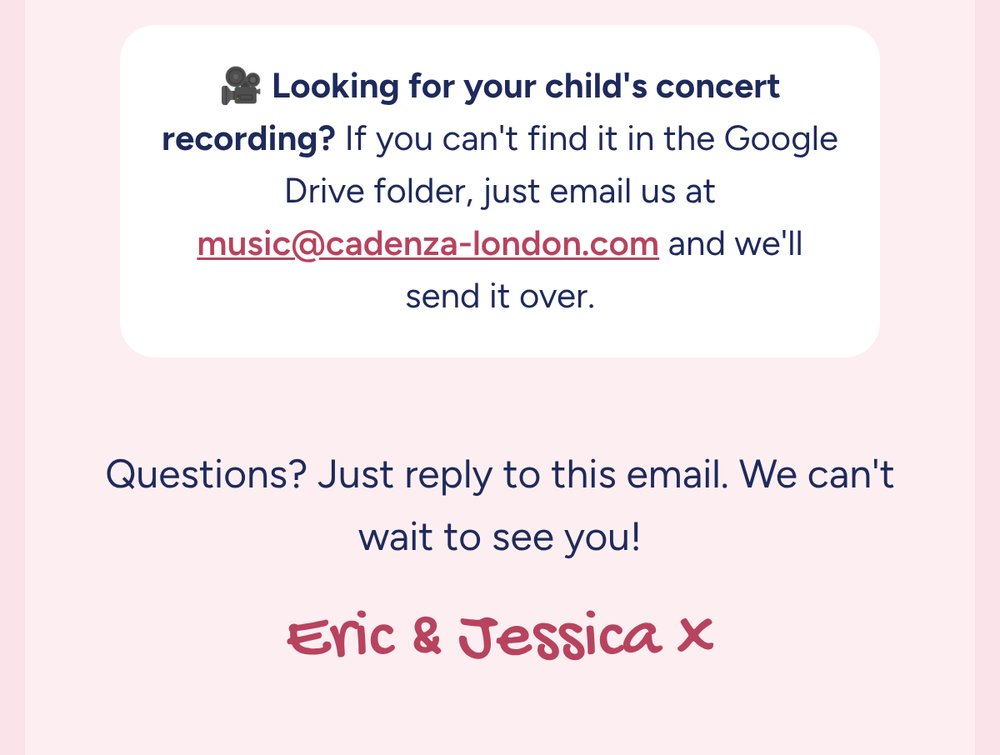
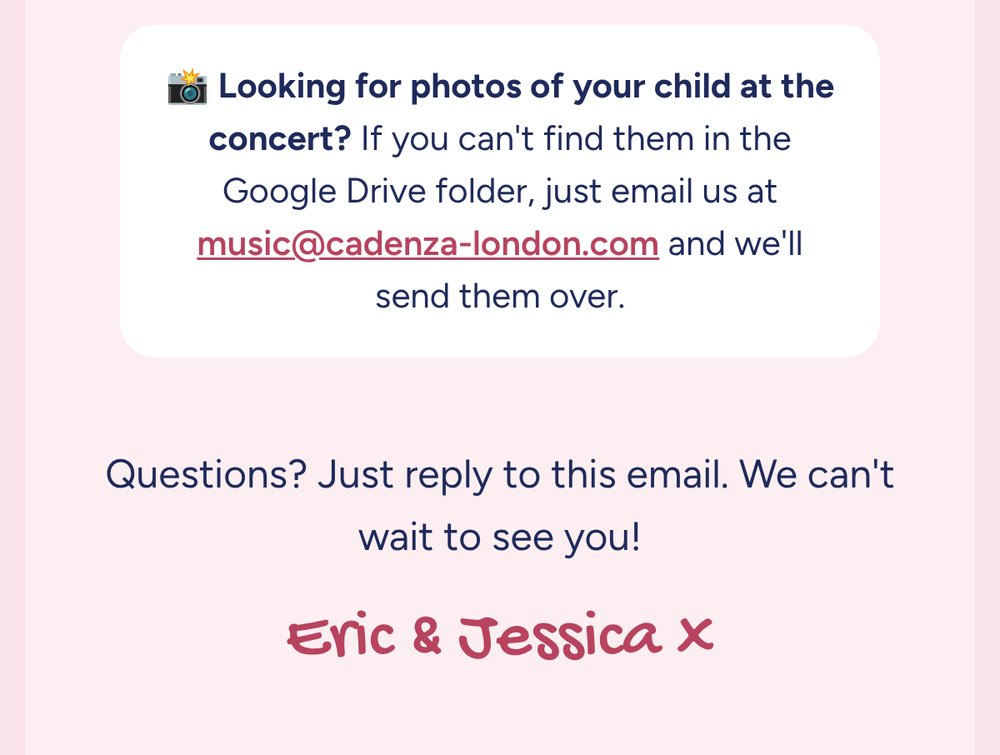
Newsletter Nov 2026: concert photos wording
Claude-Session: https://claude.ai/code/session_015bt2nYSBxtEEo5rA4rXfs1

Changed region(s): [[0.155, 0.0914, 0.837, 0.2742], [0.372, 0.3656, 0.62, 0.4265]]

diff --git a/newsletter-nov2026/email/index.html b/newsletter-nov2026/email/index.html
@@ -26,22 +26,22 @@ Early access: our new Sight-Reading Club is FREE until 31 Dec, the Digital Exam 
 
 <table role="presentation" width="480" cellpadding="0" cellspacing="0" border="0" style="width:100%;max-width:480px;">
   <tr><td style="padding:0;line-height:0;font-size:0;">
-    <a href="https://cadenza-london.com/newsletter-nov2026/" target="_blank"><img src="https://cadenza-london.com/newsletter-nov2026/email/part1.jpg?v=5" width="480" alt="Cadenza London Music Academy. November 2026 Newsletter. Hello hello! Big news is here, and you hear it first. We've got so much going on at Cadenza: as a mailing list VIP, you get early access to two brand-new things before anyone else." style="display:block;width:100%;max-width:480px;height:auto;"></a>
+    <a href="https://cadenza-london.com/newsletter-nov2026/" target="_blank"><img src="https://cadenza-london.com/newsletter-nov2026/email/part1.jpg?v=6" width="480" alt="Cadenza London Music Academy. November 2026 Newsletter. Hello hello! Big news is here, and you hear it first. We've got so much going on at Cadenza: as a mailing list VIP, you get early access to two brand-new things before anyone else." style="display:block;width:100%;max-width:480px;height:auto;"></a>
   </td></tr>
   <tr><td style="padding:0;line-height:0;font-size:0;">
-    <a href="https://cadenza-london.com/sight-reading-club#book" target="_blank"><img src="https://cadenza-london.com/newsletter-nov2026/email/part2.jpg?v=5" width="480" alt="New launch: Sight-Reading Club starts Tuesday 3 November, free every session until 31 December. Weekly on Zoom, Tuesdays 6:00–6:45pm, 8 players max. Beginner Grades 1–3, Intermediate Grades 4–6. From January £8/£10 a session or monthly plans from £15; Cadenza students get 1 free session a month. Tap to book your free place." style="display:block;width:100%;max-width:480px;height:auto;"></a>
+    <a href="https://cadenza-london.com/sight-reading-club#book" target="_blank"><img src="https://cadenza-london.com/newsletter-nov2026/email/part2.jpg?v=6" width="480" alt="New launch: Sight-Reading Club starts Tuesday 3 November, free every session until 31 December. Weekly on Zoom, Tuesdays 6:00–6:45pm, 8 players max. Beginner Grades 1–3, Intermediate Grades 4–6. From January £8/£10 a session or monthly plans from £15; Cadenza students get 1 free session a month. Tap to book your free place." style="display:block;width:100%;max-width:480px;height:auto;"></a>
   </td></tr>
   <tr><td style="padding:0;line-height:0;font-size:0;">
-    <a href="https://cadenza-london.com/digital-exam-ready/" target="_blank"><img src="https://cadenza-london.com/newsletter-nov2026/email/part3.jpg?v=5" width="480" alt="VIP early access: the in-person 4-week Digital Exam Ready Course starts in November 2026. Masterclass format, a mock exam day and a recording day on a grand piano with a videographer, for ABRSM and Trinity digital exams. Taught by Eric: 100% passing rate. Tap to get early access." style="display:block;width:100%;max-width:480px;height:auto;"></a>
+    <a href="https://cadenza-london.com/digital-exam-ready/" target="_blank"><img src="https://cadenza-london.com/newsletter-nov2026/email/part3.jpg?v=6" width="480" alt="VIP early access: the in-person 4-week Digital Exam Ready Course starts in November 2026. Masterclass format, a mock exam day and a recording day on a grand piano with a videographer, for ABRSM and Trinity digital exams. Taught by Eric: 100% passing rate. Tap to get early access." style="display:block;width:100%;max-width:480px;height:auto;"></a>
   </td></tr>
   <tr><td style="padding:0;line-height:0;font-size:0;">
-    <a href="https://cadenza-questionnaire-2027.netlify.app" target="_blank"><img src="https://cadenza-london.com/newsletter-nov2026/email/part4.jpg?v=5" width="480" alt="Photos from our Christmas concert 2025. Missed our concert last year end? We're now planning a concert or competition in January or February 2027. Tap to vote for our 2027 event: your opinion matters!" style="display:block;width:100%;max-width:480px;height:auto;"></a>
+    <a href="https://cadenza-questionnaire-2027.netlify.app" target="_blank"><img src="https://cadenza-london.com/newsletter-nov2026/email/part4.jpg?v=6" width="480" alt="Photos from our Christmas concert 2025. Missed our concert last year end? We're now planning a concert or competition in January or February 2027. Tap to vote for our 2027 event: your opinion matters!" style="display:block;width:100%;max-width:480px;height:auto;"></a>
   </td></tr>
   <tr><td style="padding:0;line-height:0;font-size:0;">
-    <a href="mailto:music@cadenza-london.com" target="_blank"><img src="https://cadenza-london.com/newsletter-nov2026/email/part5.jpg?v=5" width="480" alt="Looking for your child's concert recording? If you can't find it in the Google Drive folder, email music@cadenza-london.com and we'll send it over. Questions? Just reply to this email. Eric and Jessica x" style="display:block;width:100%;max-width:480px;height:auto;"></a>
+    <a href="mailto:music@cadenza-london.com" target="_blank"><img src="https://cadenza-london.com/newsletter-nov2026/email/part5.jpg?v=6" width="480" alt="Looking for photos of your child at the concert? If you can't find them in the Google Drive folder, email music@cadenza-london.com and we'll send them over. Questions? Just reply to this email. Eric and Jessica x" style="display:block;width:100%;max-width:480px;height:auto;"></a>
   </td></tr>
   <tr><td style="padding:0;line-height:0;font-size:0;">
-    <a href="https://cadenza-london.com" target="_blank"><img src="https://cadenza-london.com/newsletter-nov2026/email/part6.jpg?v=5" width="480" alt="Cadenza London Music Academy, Colindale, North London and online. cadenza-london.com, @cadenza.london, music@cadenza-london.com" style="display:block;width:100%;max-width:480px;height:auto;"></a>
+    <a href="https://cadenza-london.com" target="_blank"><img src="https://cadenza-london.com/newsletter-nov2026/email/part6.jpg?v=6" width="480" alt="Cadenza London Music Academy, Colindale, North London and online. cadenza-london.com, @cadenza.london, music@cadenza-london.com" style="display:block;width:100%;max-width:480px;height:auto;"></a>
   </td></tr>
   <tr><td align="center" style="padding:14px 16px 24px;font-family:Arial,Helvetica,sans-serif;font-size:12px;line-height:18px;color:#8a7f86;">
     Can't see the pictures? <a href="https://cadenza-london.com/newsletter-nov2026/" target="_blank" style="color:#8a7f86;text-decoration:underline;">View this newsletter online</a>.<br>

diff --git a/newsletter-nov2026/index.html b/newsletter-nov2026/index.html
@@ -287,7 +287,7 @@ Early access: our new Sight-Reading Club is FREE until 31 Dec, and the Digital E
             </tr></table>
             <table role="presentation" width="100%" cellpadding="0" cellspacing="0" style="margin-top:20px;"><tr>
               <td style="background:#ffffff;border-radius:14px;padding:14px 16px;font-family:'Figtree',Arial,sans-serif;font-size:14px;line-height:21px;color:#1f2a5c;text-align:center;">
-                🎥 <strong>Looking for your child's concert recording?</strong> If you can't find it in the Google Drive folder, just email us at <a href="mailto:music@cadenza-london.com" style="color:#b8435f;font-weight:600;">music@cadenza-london.com</a> and we'll send it over.
+                📸 <strong>Looking for photos of your child at the concert?</strong> If you can't find them in the Google Drive folder, just email us at <a href="mailto:music@cadenza-london.com" style="color:#b8435f;font-weight:600;">music@cadenza-london.com</a> and we'll send them over.
               </td>
             </tr></table>
           </td>
